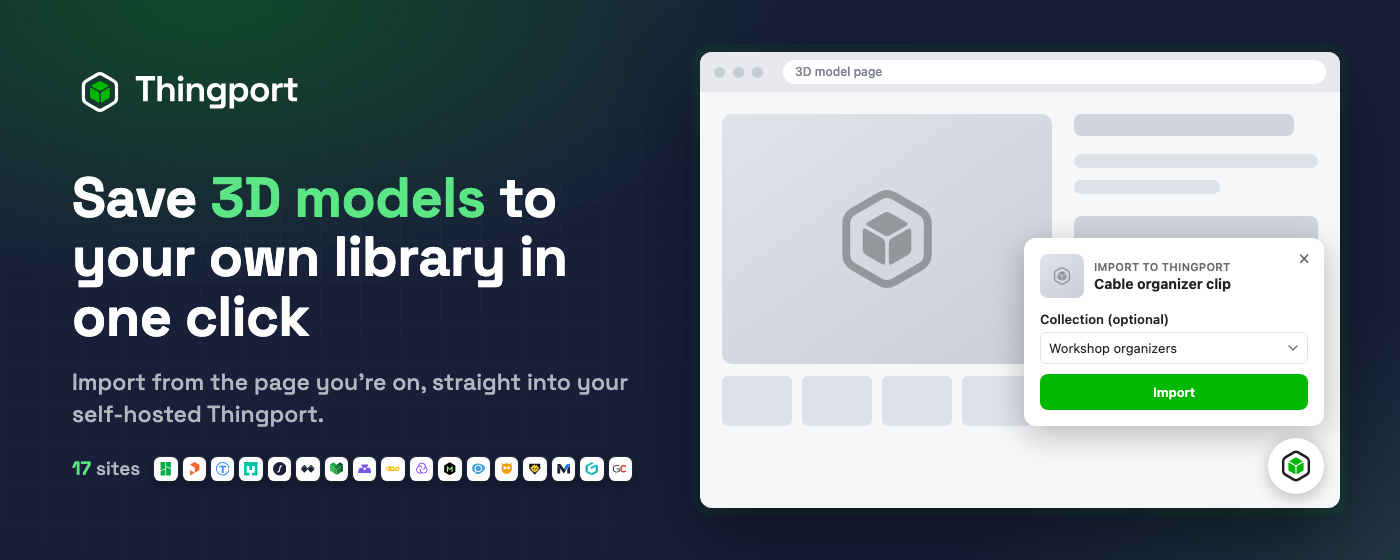
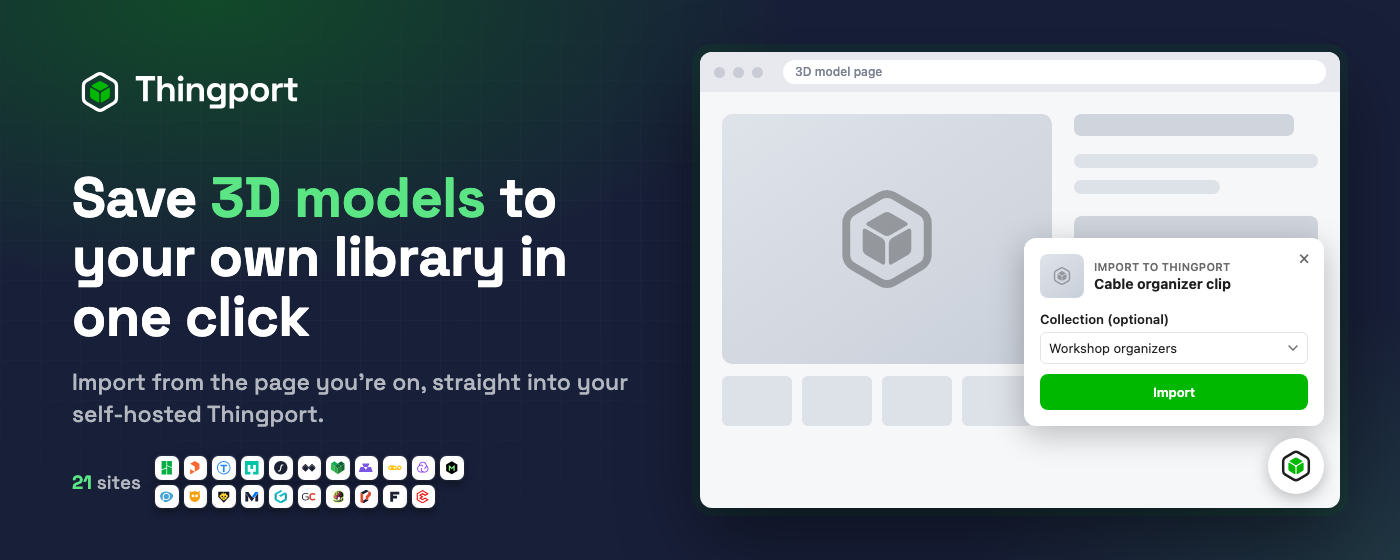
docs(extension): regenerate Grab's store images for 21 sites and the Appearance tab
The store listing pictures still showed 17 sites: Meshy, PIXUP, Fab365 and 3DExport were missing from the providers
picture, the tiles and the mosaic of model pages. All of them are rendered again with the 21, and the popup picture
gains the Appearance tab as a fifth step.

- A site with no entry in CORNER_SITES uses the example model page its manifest names, so the next site added is in
  the mosaic without an edit here. Fab365 is pinned to a neutral model, since its one free model is a Star Wars walker.
- Sale banners, such as the Prusa Black Friday one on every Printables page, are hidden while a corner is taken, so a
  store picture doesn't date within weeks.
- The ring of logos is wider, so 21 names don't run under their neighbours' tiles, and the popup steps' headings have
  room for three lines across five columns.
- The three store screenshots are kept in docs/store/screenshots/, and CONTRIBUTING.md says what each one is and
  where its pictures come from.

Changed region(s): [[0.0307, 0.8196, 0.4607, 0.9107]]

diff --git a/extension/scripts/screenshots.ts b/extension/scripts/screenshots.ts
@@ -26,6 +26,7 @@ import path from "node:path";
 import { fileURLToPath } from "node:url";
 import { chromium, type BrowserContext, type Page, type Worker } from "playwright";
 import type { BatchEntriesResult } from "../src/shared/api";
+import { MANIFESTS, PROVIDER_IDS } from "../src/providers/index.generated";
 
 const ROOT = path.resolve(path.dirname(fileURLToPath(import.meta.url)), "..");
 const EXTENSION_DIR = path.join(ROOT, "dist", "chrome");
@@ -368,7 +369,8 @@ async function screenshotPopup(
   await page.close();
 }
 
-// The other sites Grab works on, for --corners: a model linked from the front page, else `fixed`.
+// The other sites Grab works on, for --corners: a model linked from the front page, else `fixed`. A site with no entry
+// here, such as one added since, uses the example model page its manifest names.
 const CORNER_SITES: { id: string; home?: string; modelLink?: RegExp; fixed?: string }[] = [
   {
     id: "snapmaker",
@@ -407,6 +409,8 @@ const CORNER_SITES: { id: string; home?: string; modelLink?: RegExp; fixed?: str
     fixed: "https://www.cgtrader.com/3d-print-models/jewelry/ring/lotus-ring-with-opening-and-closing-mechanism",
   },
   { id: "grabcad", fixed: "https://grabcad.com/library/arduino-uno-r3-1" },
+  // Its one free model, the manifest's example, is a Star Wars walker, and most of its catalogue is licensed characters.
+  { id: "fab365", fixed: "https://fab365.net/items/235" },
 ];
 const CORNER = { width: 640, height: 512 };
 
@@ -444,6 +448,21 @@ async function clearCorner(page: Page): Promise<void> {
     });
 }
 
+/** Hides the banners a site runs for a sale, which would date a store picture within weeks. */
+async function hidePromotions(page: Page): Promise<void> {
+  await page.evaluate(() => {
+    const promo = /black.?friday|cyber.?monday|sale|promo|banner/i;
+    for (const img of document.querySelectorAll<HTMLImageElement>("img")) {
+      const link = img.closest("a");
+      const text = `${img.src} ${img.alt} ${link?.href ?? ""}`;
+      if (!promo.test(text)) continue;
+      const box = img.getBoundingClientRect();
+      // Banners only: wide, short pictures, never a model's own.
+      if (box.width > 300 && box.width > box.height * 2.5) (link ?? img).style.visibility = "hidden";
+    }
+  });
+}
+
 /** Each site's bottom-right corner, where Grab's button sits: once alone, once with the panel open. A site that
  *  turns the browser away, or where the button doesn't come up, is reported and left out. --only=corner-<site>,...
  *  takes just those. */
@@ -453,9 +472,14 @@ async function captureCorners(page: Page, models: Map<ProviderName, ModelInfo>, 
   await page.emulateMedia({ colorScheme: "light" });
   const clip = { x: PAGE_VIEWPORT.width - CORNER.width, y: PAGE_VIEWPORT.height - CORNER.height, ...CORNER };
   const only = ONLY.filter((name) => name.startsWith("corner-"));
+  const listed = new Set<string>([...PROVIDERS.map((p) => p.name), ...CORNER_SITES.map((s) => s.id)]);
+  const fromManifests = PROVIDER_IDS.filter((id) => !listed.has(id) && MANIFESTS[id].examples?.model).map((id) => ({
+    id: id as string,
+    fixed: MANIFESTS[id].examples!.model!,
+  }));
   const sites = [
     ...PROVIDERS.map((p) => ({ id: p.name as string, provider: p })),
-    ...CORNER_SITES.map((s) => ({ id: s.id, site: s })),
+    ...[...CORNER_SITES, ...fromManifests].map((s) => ({ id: s.id, site: s })),
   ].filter((entry) => !only.length || only.includes(`corner-${entry.id}`));
   for (const entry of sites) {
     try {
@@ -472,6 +496,8 @@ async function captureCorners(page: Page, models: Map<ProviderName, ModelInfo>, 
       await dismissBanners(page);
       await page.waitForTimeout(1500);
       await clearCorner(page);
+      // A store picture outlives a site's seasonal promotion, such as the Prusa sale banner on every Printables page.
+      await hidePromotions(page);
       await undressSeason(page);
       await page.screenshot({ path: path.join(dir, `${entry.id}.jpg`), type: "jpeg", quality: 85, clip });
       await fab.click();

diff --git a/extension/store-assets/screenshot-popup.html b/extension/store-assets/screenshot-popup.html
@@ -46,14 +46,14 @@
         left: 28px;
         right: 28px;
         display: grid;
-        grid-template-columns: repeat(4, 1fr);
-        gap: 24px;
+        grid-template-columns: repeat(5, 1fr);
+        gap: 18px;
       }
       .step__head {
         display: grid;
         grid-template-columns: 28px 1fr;
         gap: 10px;
-        height: 66px;
+        height: 88px;
       }
       .step__num {
         width: 28px;
@@ -110,6 +110,7 @@
           text: "Approve this browser in Thingport. No password is saved.",
         },
         { popup: "connected", title: "Choose the sites", text: "Every site Grab works on, each on or off." },
+        { popup: "appearance", title: "Its look", text: "Six looks for its button, in any corner of the page." },
         {
           popup: "features",
           title: "Extra features",

diff --git a/extension/store-assets/screenshot-providers.html b/extension/store-assets/screenshot-providers.html
@@ -194,7 +194,8 @@
     <script>
       // Every site on an ellipse round the hub, evenly spaced along it, the first at the top.
       const CENTER = { x: 640, y: 425 };
-      const RADIUS = { x: 470, y: 195 };
+      // Wide enough that 21 sites' names don't run under their neighbours' tiles at the sides.
+      const RADIUS = { x: 545, y: 198 };
       const SVG_NS = "http://www.w3.org/2000/svg";
 
       function ellipsePoints(count) {

diff --git a/extension/scripts/store-assets.ts b/extension/scripts/store-assets.ts
@@ -79,7 +79,7 @@ const data = {
   providers,
   popups: Object.fromEntries(
     await Promise.all(
-      ["setup", "connected", "features", "history"].map(async (name) => [
+      ["setup", "connected", "appearance", "features", "history"].map(async (name) => [
         name,
         await fileUrl(path.join(SCREENSHOTS_DIR, `popup-${name}.png`)),
       ]),

diff --git a/extension/CONTRIBUTING.md b/extension/CONTRIBUTING.md
@@ -190,15 +190,21 @@ the same extension ID as the store version.
 `npm run store-assets` renders everything a listing asks for into `docs/store/`, from the HTML
 templates in `store-assets/` (styled like the website's social card):
 
-| File                | Size     | Use                                                                                                  |
-| ------------------- | -------- | ---------------------------------------------------------------------------------------------------- |
-| `logo.png`          | 300x300  | Store logo                                                                                           |
-| `store-icon.png`    | 128x128  | Chrome Web Store icon -- transparent, 96x96 artwork with 16px padding                                |
-| `tile-small.png`    | 440x280  | Small promotional tile                                                                               |
-| `tile-large.png`    | 1400x560 | Large promotional tile -- the extension's real panel (its compiled stylesheet) on a placeholder page |
-| `screenshots/*.png` | 1280x800 | The README's page screenshots as PNG, which is all the stores accept                                 |
+| File                          | Size     | Use                                                                                                  |
+| ----------------------------- | -------- | ---------------------------------------------------------------------------------------------------- |
+| `logo.png`                    | 300x300  | Store logo                                                                                           |
+| `store-icon.png`              | 128x128  | Chrome Web Store icon -- transparent, 96x96 artwork with 16px padding                                |
+| `tile-small.png`              | 440x280  | Small promotional tile                                                                               |
+| `tile-large.png`              | 1400x560 | Large promotional tile -- the extension's real panel (its compiled stylesheet) on a placeholder page |
+| `screenshots/1-providers.png` | 1280x800 | The logo among every site Grab works on, and what it does                                            |
+| `screenshots/2-popup.png`     | 1280x800 | The popup: not connected yet, and each tab once it is                                                |
+| `screenshots/3-sites.png`     | 1280x800 | A model page's corner on each site, with Grab's button or panel                                      |
 
-Run `npm run screenshots` first when the screenshots need refreshing. They show live provider
+The popup pictures come from `docs/screenshots/popup-*.png` and the corners from `npm run screenshots -- --corners`,
+which visits a model page on every site, so run those first when the pictures need refreshing. A site added since
+uses the example model its manifest names, unless `CORNER_SITES` in `scripts/screenshots.ts` pins another, and sale
+banners are hidden so a picture doesn't date. Store listings can't be changed through the stores' APIs, so these are
+uploaded by hand. They show live provider
 pages, so check them before uploading: a front-page model can be someone else's trademarked
 character, and Printables pages carry its own ads. Pick neutral models with
 `npm run screenshots -- --makerworld=<url> --printables=<url> --thingiverse=<url>`. MyMiniFactory uses a fixed free
